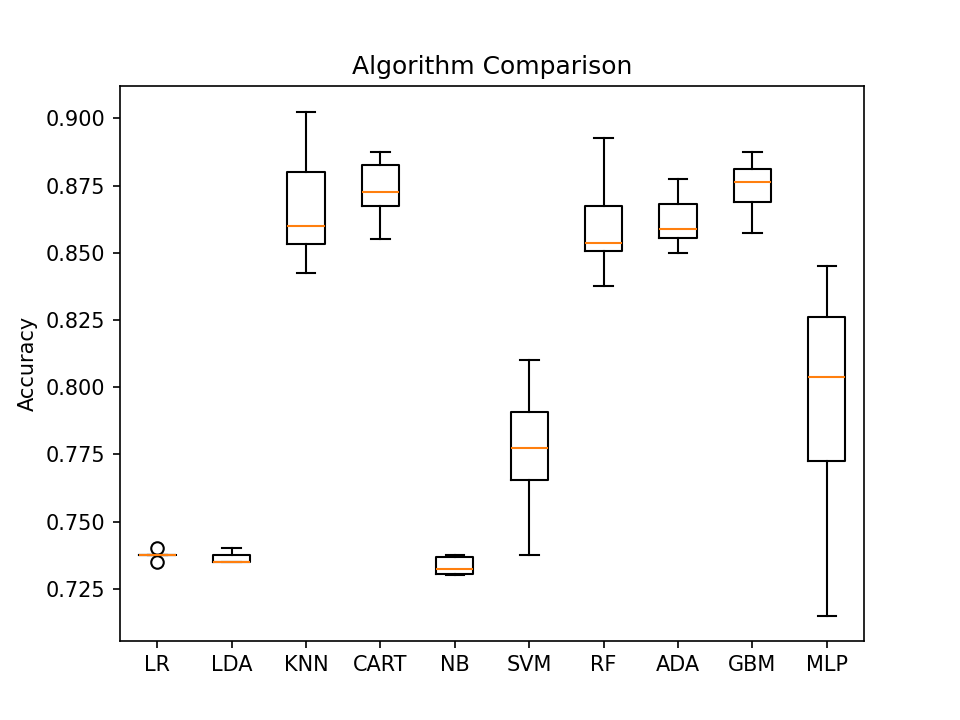
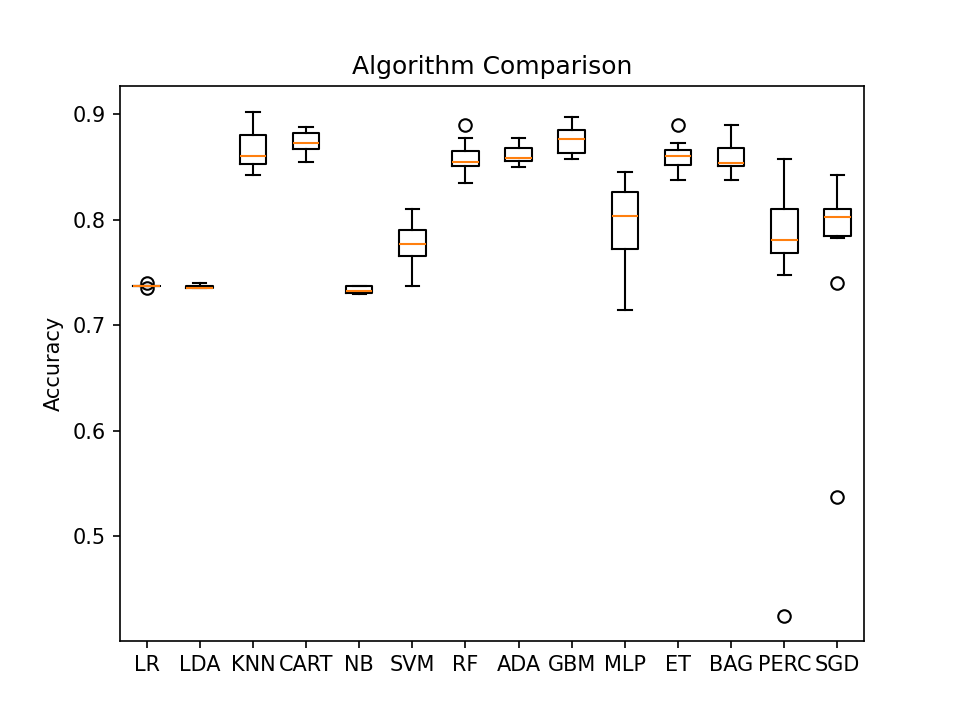
added 4 algorithms and updated plots

diff --git a/classification.py b/classification.py
@@ -53,7 +53,10 @@ from sklearn.neighbors import KNeighborsClassifier
 from sklearn.discriminant_analysis import LinearDiscriminantAnalysis
 from sklearn.naive_bayes import GaussianNB
 from sklearn.svm import SVC
-
+from sklearn.ensemble import ExtraTreesClassifier, BaggingClassifier
+from sklearn.discriminant_analysis import QuadraticDiscriminantAnalysis
+from sklearn.linear_model import SGDClassifier
+from sklearn.linear_model import Perceptron
 
 # ============================================================
 # 3. Load dataset
@@ -160,6 +163,10 @@ models.append(('MLP', MLPClassifier(
     max_iter=300,
     random_state=1
 )))
+models.append(('ET', ExtraTreesClassifier(n_estimators=100, random_state=1)))
+models.append(('BAG', BaggingClassifier(n_estimators=100, random_state=1)))
+models.append(('PERC', Perceptron(tol=1e-3, random_state=1)))
+models.append(('SGD', SGDClassifier(max_iter=1000, tol=1e-3, random_state=1)))
 
 
 # Evaluate each model using 10-fold Stratified Cross Validation
